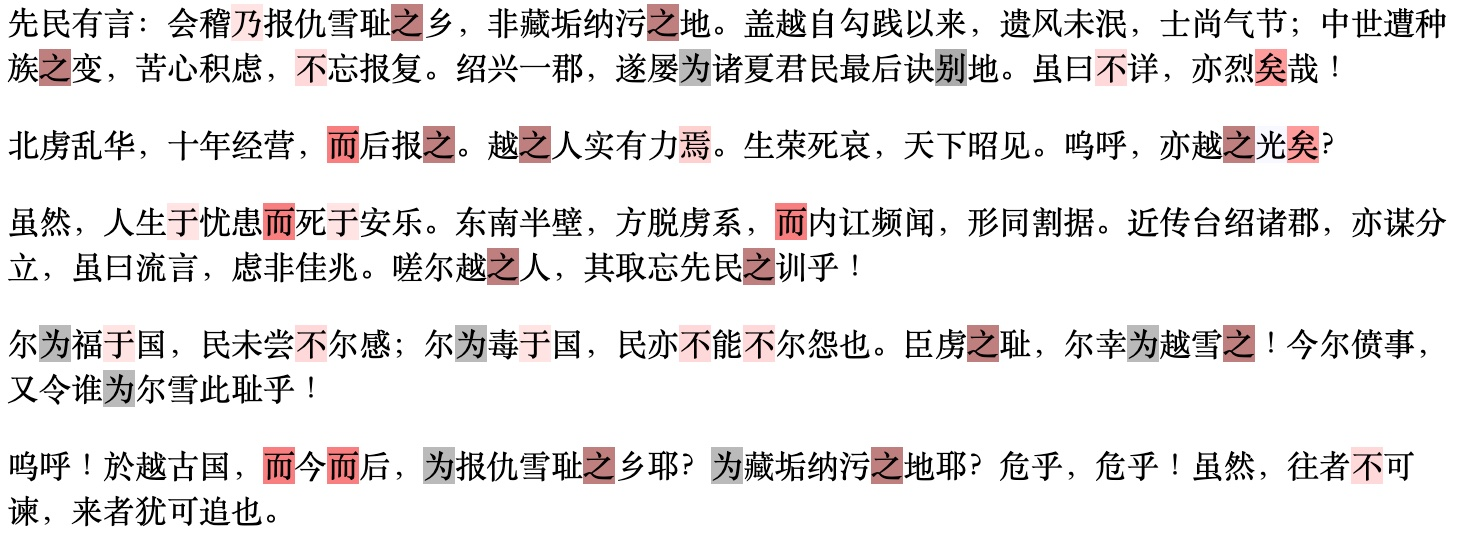
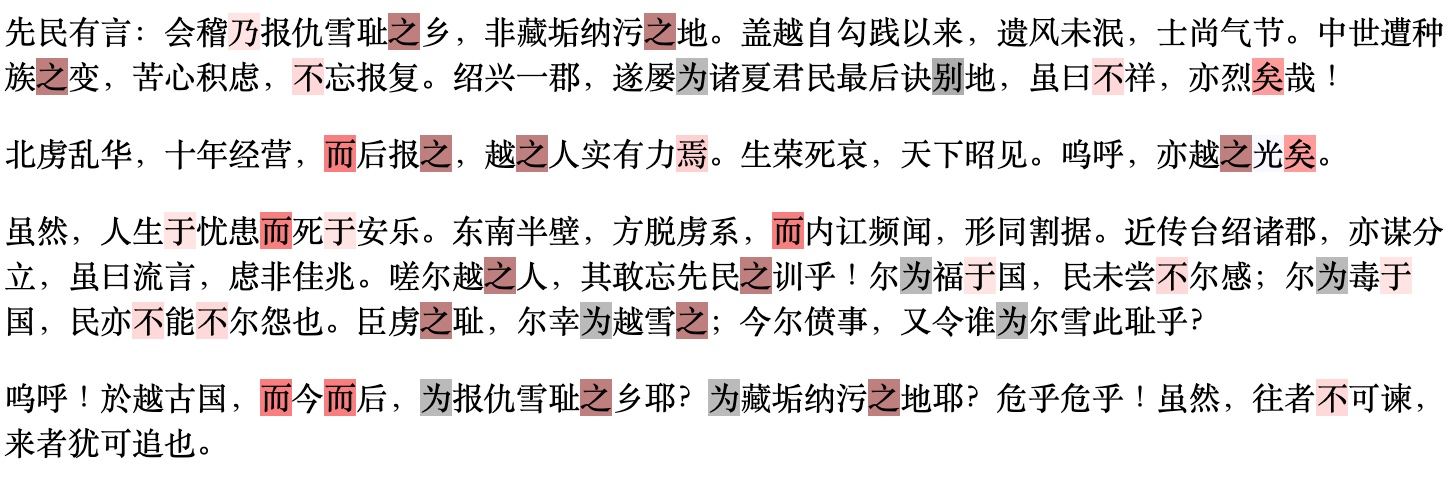
Update viz and html files to reflect modification on corpus

diff --git a/visualization/望华国篇.html b/visualization/望华国篇.html
@@ -5,7 +5,7 @@
         <meta charset="UTF-8">
     </head>
     <body>
-    <p>灵肉战绌，欲动情胜。罪恶滋长，缘生耻辱。若以悲哀<mark style="background-color:rgba(127, 0, 0, 0.5);">之</mark>力，能知悔改；<mark style="background-color:rgba(255, 233, 233, 0.5);">则</mark>新生抽乙，即见<mark style="background-color:rgba(255, 201, 201, 0.5);">于</mark>剥复<mark style="background-color:rgba(127, 0, 0, 0.5);">之</mark>会。叉摩<mark style="background-color:rgba(127, 0, 0, 0.5);">之</mark>谊，凡以披陈众失，发露过咎，改往<mark style="background-color:rgba(127, 0, 0, 0.5);">之</mark>际，<mark style="background-color:rgba(255, 180, 180, 0.5);">不</mark>忘修来。故待善化。民族<mark style="background-color:rgba(127, 0, 0, 0.5);">之</mark>中兴，亦<mark style="background-color:rgba(49, 49, 49, 0.5);">本</mark>此理。神<mark style="background-color:rgba(255, 180, 180, 0.5);">不</mark>终昧，回首怅然，厌悔脱离，更始其命。岂有他哉，自觉<mark style="background-color:rgba(241, 0, 0, 0.5);">而</mark>已<mark style="background-color:rgba(255, 56, 56, 0.5);">矣</mark>！然余观<mark style="background-color:rgba(255, 201, 201, 0.5);">于</mark>华国<mark style="background-color:rgba(127, 0, 0, 0.5);">之</mark>民，<mark style="background-color:rgba(255, 201, 201, 0.5);">乃</mark>又<mark style="background-color:rgba(255, 180, 180, 0.5);">不</mark>能无感。往者政教<mark style="background-color:rgba(117, 117, 117, 0.5);">为</mark>虐，种性日离。千载以来，世<mark style="background-color:rgba(117, 117, 117, 0.5);">为</mark>胜民。以利禄<mark style="background-color:rgba(117, 117, 117, 0.5);">为</mark>性命，以残贼<mark style="background-color:rgba(117, 117, 117, 0.5);">为</mark>功业。利<mark style="background-color:rgba(127, 0, 0, 0.5);">之</mark>所在，<mark style="background-color:rgba(255, 180, 180, 0.5);">不</mark>问恩仇，虽异族可君，同种可杀也。其次所畏莫若威，故所业二，<mark style="background-color:rgba(255, 180, 180, 0.5);">不</mark>受制<mark style="background-color:rgba(255, 201, 201, 0.5);">于</mark>人，<mark style="background-color:rgba(255, 233, 233, 0.5);">则</mark><mark style="background-color:rgba(117, 117, 117, 0.5);">为</mark>暴<mark style="background-color:rgba(255, 201, 201, 0.5);">于</mark>国。中国<mark style="background-color:rgba(127, 0, 0, 0.5);">之</mark>事，一治、一乱。治者，其服刑<mark style="background-color:rgba(127, 0, 0, 0.5);">之</mark>日；<mark style="background-color:rgba(241, 0, 0, 0.5);">而</mark>乱者其得志<mark style="background-color:rgba(127, 0, 0, 0.5);">之</mark>秋。故观近古史书，历历<mark style="background-color:rgba(139, 139, 139, 0.5);">皆</mark>罪恶<mark style="background-color:rgba(127, 0, 0, 0.5);">之</mark>迹；亦历历<mark style="background-color:rgba(139, 139, 139, 0.5);">皆</mark>耻辱<mark style="background-color:rgba(127, 0, 0, 0.5);">之</mark>痕也。罪辱如斯，<mark style="background-color:rgba(241, 0, 0, 0.5);">而</mark>悲哀<mark style="background-color:rgba(255, 233, 233, 0.5);">则</mark>安在，悔改者又谁欤？顽迷<mark style="background-color:rgba(127, 0, 0, 0.5);">之</mark>民，<mark style="background-color:rgba(255, 180, 180, 0.5);">不</mark>知自觉，坐令覆辙屡践，长其罪恶<mark style="background-color:rgba(241, 0, 0, 0.5);">而</mark>重其耻辱，可哀也<mark style="background-color:rgba(209, 209, 255, 0.5);">夫</mark>！其事一征<mark style="background-color:rgba(127, 0, 0, 0.5);">之</mark><mark style="background-color:rgba(255, 201, 201, 0.5);">于</mark>五胡<mark style="background-color:rgba(127, 0, 0, 0.5);">之</mark>世，再征<mark style="background-color:rgba(127, 0, 0, 0.5);">之</mark><mark style="background-color:rgba(255, 201, 201, 0.5);">于</mark>金，三征<mark style="background-color:rgba(127, 0, 0, 0.5);">之</mark><mark style="background-color:rgba(255, 201, 201, 0.5);">于</mark>元，四征<mark style="background-color:rgba(127, 0, 0, 0.5);">之</mark><mark style="background-color:rgba(255, 201, 201, 0.5);">于</mark>清，<mark style="background-color:rgba(241, 0, 0, 0.5);">而</mark>人<mark style="background-color:rgba(139, 139, 139, 0.5);">皆</mark><mark style="background-color:rgba(255, 180, 180, 0.5);">不</mark>知悟；伍征<mark style="background-color:rgba(127, 0, 0, 0.5);">之</mark><mark style="background-color:rgba(255, 201, 201, 0.5);">于</mark>太平天国时，曾彭<mark style="background-color:rgba(127, 0, 0, 0.5);">之</mark>助贼，杨李<mark style="background-color:rgba(127, 0, 0, 0.5);">之</mark>争权；六征<mark style="background-color:rgba(127, 0, 0, 0.5);">之</mark><mark style="background-color:rgba(255, 201, 201, 0.5);">于</mark>今，袁冯<mark style="background-color:rgba(127, 0, 0, 0.5);">之</mark><mark style="background-color:rgba(255, 141, 141, 0.5);">徒</mark>，无异<mark style="background-color:rgba(255, 201, 201, 0.5);">于</mark>曾彭，焦陈<mark style="background-color:rgba(127, 0, 0, 0.5);">之</mark>狱，孙黎<mark style="background-color:rgba(127, 0, 0, 0.5);">之</mark>囗，亦杨李<mark style="background-color:rgba(127, 0, 0, 0.5);">之</mark>渐。<mark style="background-color:rgba(241, 0, 0, 0.5);">而</mark>今陶君复殒<mark style="background-color:rgba(255, 201, 201, 0.5);">于</mark>私剑<mark style="background-color:rgba(255, 56, 56, 0.5);">矣</mark>，车过腹痛<mark style="background-color:rgba(127, 0, 0, 0.5);">之</mark>感，如<mark style="background-color:rgba(255, 141, 141, 0.5);">何</mark>可言！使君辈存，令此人死！华土<mark style="background-color:rgba(127, 0, 0, 0.5);">之</mark>人，其永劫<mark style="background-color:rgba(255, 180, 180, 0.5);">不</mark>厝者<mark style="background-color:rgba(255, 56, 56, 0.5);">矣</mark>。呜呼！陶君经营伟业，福被吾族。今<mark style="background-color:rgba(255, 180, 180, 0.5);">不</mark>死<mark style="background-color:rgba(255, 201, 201, 0.5);">于</mark>异族，<mark style="background-color:rgba(241, 0, 0, 0.5);">而</mark>死<mark style="background-color:rgba(255, 201, 201, 0.5);">于</mark>同种<mark style="background-color:rgba(127, 0, 0, 0.5);">之</mark>手，岂命也<mark style="background-color:rgba(209, 209, 255, 0.5);">夫</mark>！君<mark style="background-color:rgba(127, 0, 0, 0.5);">之</mark>死，<mark style="background-color:rgba(49, 49, 49, 0.5);">本</mark><mark style="background-color:rgba(255, 201, 201, 0.5);">于</mark>敌谋，或出自私利，虽<mark style="background-color:rgba(255, 180, 180, 0.5);">不</mark>可知，要<mark style="background-color:rgba(127, 0, 0, 0.5);">之</mark>汉人亲将其事<mark style="background-color:rgba(255, 233, 233, 0.5);">则</mark>一。<mark style="background-color:rgba(209, 209, 255, 0.5);">夫</mark>春秋<mark style="background-color:rgba(127, 0, 0, 0.5);">之</mark>义，内诸夏<mark style="background-color:rgba(241, 0, 0, 0.5);">而</mark>外夷狄，岂<mark style="background-color:rgba(183, 0, 0, 0.5);">诚</mark>推寻<mark style="background-color:rgba(255, 201, 201, 0.5);">于</mark>谱谍<mark style="background-color:rgba(127, 0, 0, 0.5);">之</mark>际，以立差<mark style="background-color:rgba(90, 90, 90, 0.5);">别</mark>？第以种姓既殊，利害相反，故亲者日亲，疏者日疏。野人械斗<mark style="background-color:rgba(255, 180, 180, 0.5);">不</mark><mark style="background-color:rgba(66, 66, 66, 0.5);">及</mark>同征<mark style="background-color:rgba(127, 0, 0, 0.5);">之</mark>众，<mark style="background-color:rgba(241, 0, 0, 0.5);">而</mark>炎黄帝子，<mark style="background-color:rgba(255, 201, 201, 0.5);">乃</mark>推刃<mark style="background-color:rgba(255, 201, 201, 0.5);">于</mark>同气。<mark style="background-color:rgba(255, 5, 5, 0.5);">惟</mark>帝眷兹苗裔，其啸吟<mark style="background-color:rgba(255, 56, 56, 0.5);">矣</mark>！来日方艰，天怒将赫。余欲登高丘，呼国人<mark style="background-color:rgba(241, 0, 0, 0.5);">而</mark>属<mark style="background-color:rgba(127, 0, 0, 0.5);">之</mark>曰：汝其悔改！汝倘自觉，戴其夙业，号泣<mark style="background-color:rgba(255, 201, 201, 0.5);">于</mark>旷野以自怨艾，悲哀<mark style="background-color:rgba(127, 0, 0, 0.5);">之</mark>声发<mark style="background-color:rgba(255, 201, 201, 0.5);">于</mark>中，汝<mark style="background-color:rgba(255, 201, 201, 0.5);">乃</mark>昭苏。宁保灵明<mark style="background-color:rgba(241, 0, 0, 0.5);">而</mark>死，毋徇物欲以生也。先哲有言：<mark style="background-color:rgba(255, 5, 5, 0.5);">惟</mark>有坟墓处，始有复活，望<mark style="background-color:rgba(127, 0, 0, 0.5);">之</mark>始也。即或<mark style="background-color:rgba(255, 180, 180, 0.5);">不</mark>然，复活<mark style="background-color:rgba(255, 180, 180, 0.5);">不</mark>可期，<mark style="background-color:rgba(241, 0, 0, 0.5);">而</mark>幽垄<mark style="background-color:rgba(127, 0, 0, 0.5);">之</mark>清净，亦差胜<mark style="background-color:rgba(255, 201, 201, 0.5);">于</mark>秽墟<mark style="background-color:rgba(127, 0, 0, 0.5);">之</mark>恶浊尔，悲<mark style="background-color:rgba(209, 209, 255, 0.5);">夫</mark>！此望<mark style="background-color:rgba(127, 0, 0, 0.5);">之</mark>终也。</p>
+    <p>灵肉战绌，欲动情胜，罪恶滋长，缘生耻辱。若以悲哀<mark style="background-color:rgba(127, 0, 0, 0.5);">之</mark>力，能知悔改，<mark style="background-color:rgba(255, 233, 233, 0.5);">则</mark>新生抽乙，即见<mark style="background-color:rgba(255, 201, 201, 0.5);">于</mark>剥复<mark style="background-color:rgba(127, 0, 0, 0.5);">之</mark>会，又摩<mark style="background-color:rgba(127, 0, 0, 0.5);">之</mark>以谊，凡以披陈众失，发露过咎，改往<mark style="background-color:rgba(127, 0, 0, 0.5);">之</mark>际，<mark style="background-color:rgba(255, 180, 180, 0.5);">不</mark>忘修来，故待善化。民族<mark style="background-color:rgba(127, 0, 0, 0.5);">之</mark>中兴，亦<mark style="background-color:rgba(49, 49, 49, 0.5);">本</mark>此理。神<mark style="background-color:rgba(255, 180, 180, 0.5);">不</mark>终昧，回首怅然。厌悔脱离，更始其命，岂有他哉，自觉<mark style="background-color:rgba(241, 0, 0, 0.5);">而</mark>已<mark style="background-color:rgba(255, 56, 56, 0.5);">矣</mark>。</p><p></p><p>然余观<mark style="background-color:rgba(255, 201, 201, 0.5);">于</mark>华国<mark style="background-color:rgba(127, 0, 0, 0.5);">之</mark>民，<mark style="background-color:rgba(255, 201, 201, 0.5);">乃</mark>又<mark style="background-color:rgba(255, 180, 180, 0.5);">不</mark>能无感。往者政教<mark style="background-color:rgba(117, 117, 117, 0.5);">为</mark>虐，种性日离，千载以来，世<mark style="background-color:rgba(117, 117, 117, 0.5);">为</mark>胜民，以利禄<mark style="background-color:rgba(117, 117, 117, 0.5);">为</mark>性命，以残贼<mark style="background-color:rgba(117, 117, 117, 0.5);">为</mark>功业。利<mark style="background-color:rgba(127, 0, 0, 0.5);">之</mark>所在，<mark style="background-color:rgba(255, 180, 180, 0.5);">不</mark>问恩仇，虽异族可君，同种可杀也。其次所畏莫若威。故所业二，<mark style="background-color:rgba(255, 180, 180, 0.5);">不</mark>受制<mark style="background-color:rgba(255, 201, 201, 0.5);">于</mark>人，<mark style="background-color:rgba(255, 233, 233, 0.5);">则</mark><mark style="background-color:rgba(117, 117, 117, 0.5);">为</mark>暴<mark style="background-color:rgba(255, 201, 201, 0.5);">于</mark>国。中国<mark style="background-color:rgba(127, 0, 0, 0.5);">之</mark>事，一治一乱。治者其服刑<mark style="background-color:rgba(127, 0, 0, 0.5);">之</mark>日，<mark style="background-color:rgba(241, 0, 0, 0.5);">而</mark>乱者其得志<mark style="background-color:rgba(127, 0, 0, 0.5);">之</mark>秋。故观近古史书，历历<mark style="background-color:rgba(139, 139, 139, 0.5);">皆</mark>罪恶<mark style="background-color:rgba(127, 0, 0, 0.5);">之</mark>迹，亦历历<mark style="background-color:rgba(139, 139, 139, 0.5);">皆</mark>耻辱<mark style="background-color:rgba(127, 0, 0, 0.5);">之</mark>痕也。罪辱如斯，<mark style="background-color:rgba(241, 0, 0, 0.5);">而</mark>悲哀<mark style="background-color:rgba(255, 233, 233, 0.5);">则</mark>安在，悔改者又谁欤？顽迷<mark style="background-color:rgba(127, 0, 0, 0.5);">之</mark>民，<mark style="background-color:rgba(255, 180, 180, 0.5);">不</mark>知自觉，坐令覆辙屡践，长其罪恶<mark style="background-color:rgba(241, 0, 0, 0.5);">而</mark>重其耻辱，可哀也<mark style="background-color:rgba(209, 209, 255, 0.5);">夫</mark>！其事一征<mark style="background-color:rgba(127, 0, 0, 0.5);">之</mark><mark style="background-color:rgba(255, 201, 201, 0.5);">于</mark>五胡<mark style="background-color:rgba(127, 0, 0, 0.5);">之</mark>世，再征<mark style="background-color:rgba(127, 0, 0, 0.5);">之</mark><mark style="background-color:rgba(255, 201, 201, 0.5);">于</mark>金，三征<mark style="background-color:rgba(127, 0, 0, 0.5);">之</mark><mark style="background-color:rgba(255, 201, 201, 0.5);">于</mark>元，四征<mark style="background-color:rgba(127, 0, 0, 0.5);">之</mark><mark style="background-color:rgba(255, 201, 201, 0.5);">于</mark>清，<mark style="background-color:rgba(241, 0, 0, 0.5);">而</mark>人<mark style="background-color:rgba(139, 139, 139, 0.5);">皆</mark><mark style="background-color:rgba(255, 180, 180, 0.5);">不</mark>知悟；五征<mark style="background-color:rgba(127, 0, 0, 0.5);">之</mark><mark style="background-color:rgba(255, 201, 201, 0.5);">于</mark>太平天国时曾彭<mark style="background-color:rgba(127, 0, 0, 0.5);">之</mark>助贼，杨李<mark style="background-color:rgba(127, 0, 0, 0.5);">之</mark>争权；六征<mark style="background-color:rgba(127, 0, 0, 0.5);">之</mark><mark style="background-color:rgba(255, 201, 201, 0.5);">于</mark>今，袁冯<mark style="background-color:rgba(127, 0, 0, 0.5);">之</mark><mark style="background-color:rgba(255, 141, 141, 0.5);">徒</mark>无异<mark style="background-color:rgba(255, 201, 201, 0.5);">于</mark>曾彭，焦陈<mark style="background-color:rgba(127, 0, 0, 0.5);">之</mark>狱，孙黎<mark style="background-color:rgba(127, 0, 0, 0.5);">之</mark>囗，亦杨李<mark style="background-color:rgba(127, 0, 0, 0.5);">之</mark>渐。<mark style="background-color:rgba(241, 0, 0, 0.5);">而</mark>今陶君复殒<mark style="background-color:rgba(255, 201, 201, 0.5);">于</mark>私剑<mark style="background-color:rgba(255, 56, 56, 0.5);">矣</mark>，车过腹痛<mark style="background-color:rgba(127, 0, 0, 0.5);">之</mark>感，如<mark style="background-color:rgba(255, 141, 141, 0.5);">何</mark>可言！使君辈存，令此人死。华土<mark style="background-color:rgba(127, 0, 0, 0.5);">之</mark>人，其永劫<mark style="background-color:rgba(255, 180, 180, 0.5);">不</mark>悟者<mark style="background-color:rgba(255, 56, 56, 0.5);">矣</mark>。</p><p></p><p>呜呼！陶君经营伟业，福被吾族。今<mark style="background-color:rgba(255, 180, 180, 0.5);">不</mark>死<mark style="background-color:rgba(255, 201, 201, 0.5);">于</mark>异族，<mark style="background-color:rgba(241, 0, 0, 0.5);">而</mark>死<mark style="background-color:rgba(255, 201, 201, 0.5);">于</mark>同种<mark style="background-color:rgba(127, 0, 0, 0.5);">之</mark>手，岂命也<mark style="background-color:rgba(209, 209, 255, 0.5);">夫</mark>！君<mark style="background-color:rgba(127, 0, 0, 0.5);">之</mark>死，<mark style="background-color:rgba(49, 49, 49, 0.5);">本</mark><mark style="background-color:rgba(255, 201, 201, 0.5);">于</mark>敌谋，或出自私利，虽<mark style="background-color:rgba(255, 180, 180, 0.5);">不</mark>可知，要<mark style="background-color:rgba(127, 0, 0, 0.5);">之</mark>汉人亲将其事<mark style="background-color:rgba(255, 233, 233, 0.5);">则</mark>一。<mark style="background-color:rgba(209, 209, 255, 0.5);">夫</mark>《春秋》<mark style="background-color:rgba(127, 0, 0, 0.5);">之</mark>义，内诸夏<mark style="background-color:rgba(241, 0, 0, 0.5);">而</mark>外夷狄，岂<mark style="background-color:rgba(183, 0, 0, 0.5);">诚</mark>推寻<mark style="background-color:rgba(255, 201, 201, 0.5);">于</mark>谱牒<mark style="background-color:rgba(127, 0, 0, 0.5);">之</mark>际，以立差<mark style="background-color:rgba(90, 90, 90, 0.5);">别</mark>？第以种姓既殊，利害相反，故亲者日亲，疏者日疏。野人械斗<mark style="background-color:rgba(255, 180, 180, 0.5);">不</mark><mark style="background-color:rgba(66, 66, 66, 0.5);">及</mark>同征<mark style="background-color:rgba(127, 0, 0, 0.5);">之</mark>众，<mark style="background-color:rgba(241, 0, 0, 0.5);">而</mark>炎黄帝子，<mark style="background-color:rgba(255, 201, 201, 0.5);">乃</mark>推刃<mark style="background-color:rgba(255, 201, 201, 0.5);">于</mark>同气。<mark style="background-color:rgba(255, 5, 5, 0.5);">惟</mark>帝眷兹苗裔，其啸吟<mark style="background-color:rgba(255, 56, 56, 0.5);">矣</mark>。</p><p></p><p>来日方艰，天怒将赫。余欲登高丘，呼国人<mark style="background-color:rgba(241, 0, 0, 0.5);">而</mark>属<mark style="background-color:rgba(127, 0, 0, 0.5);">之</mark>曰：汝其悔改！汝倘自觉，戴其夙业，号泣<mark style="background-color:rgba(255, 201, 201, 0.5);">于</mark>旷野以自怨艾，悲哀<mark style="background-color:rgba(127, 0, 0, 0.5);">之</mark>声发<mark style="background-color:rgba(255, 201, 201, 0.5);">于</mark>中，汝<mark style="background-color:rgba(255, 201, 201, 0.5);">乃</mark>昭苏。宁保灵明<mark style="background-color:rgba(241, 0, 0, 0.5);">而</mark>死，毋徇物欲以生也。先哲有言：<mark style="background-color:rgba(255, 5, 5, 0.5);">惟</mark>有坟墓处，始有复活，望<mark style="background-color:rgba(127, 0, 0, 0.5);">之</mark>始也。即或<mark style="background-color:rgba(255, 180, 180, 0.5);">不</mark>然，复活<mark style="background-color:rgba(255, 180, 180, 0.5);">不</mark>可期，<mark style="background-color:rgba(241, 0, 0, 0.5);">而</mark>幽垄<mark style="background-color:rgba(127, 0, 0, 0.5);">之</mark>清净，亦差胜<mark style="background-color:rgba(255, 201, 201, 0.5);">于</mark>秽墟<mark style="background-color:rgba(127, 0, 0, 0.5);">之</mark>恶浊尔。悲<mark style="background-color:rgba(209, 209, 255, 0.5);">夫</mark>！此望<mark style="background-color:rgba(127, 0, 0, 0.5);">之</mark>终也。</p>
     </body>
     </html>
     

diff --git a/visualization/望越篇.html b/visualization/望越篇.html
@@ -5,7 +5,7 @@
         <meta charset="UTF-8">
     </head>
     <body>
-    <p>盖闻<mark style="background-color:rgba(127, 0, 0, 0.5);">之</mark>：一国文明<mark style="background-color:rgba(127, 0, 0, 0.5);">之</mark>消长，以种业<mark style="background-color:rgba(117, 117, 117, 0.5);">为</mark>因依，其由来者远。欲探厥极，当上涉<mark style="background-color:rgba(255, 201, 201, 0.5);">于</mark>幽冥<mark style="background-color:rgba(127, 0, 0, 0.5);">之</mark>界。种业者，<mark style="background-color:rgba(49, 49, 49, 0.5);">本</mark><mark style="background-color:rgba(255, 201, 201, 0.5);">于</mark>国人彝德，驸以习贯所安，宗信所仰，重<mark style="background-color:rgba(127, 0, 0, 0.5);">之</mark>以岁月，积渐<mark style="background-color:rgba(255, 201, 201, 0.5);">乃</mark>成。其期常以千年，近者亦数百岁。逮其宁一，<mark style="background-color:rgba(255, 233, 233, 0.5);">则</mark>思感咸通，<mark style="background-color:rgba(127, 0, 0, 0.5);">之</mark><mark style="background-color:rgba(117, 117, 117, 0.5);">为</mark>公意，虽有圣者，莫赞一辞。故造成种业，<mark style="background-color:rgba(255, 180, 180, 0.5);">不</mark>在上智，<mark style="background-color:rgba(241, 0, 0, 0.5);">而</mark>在中人；<mark style="background-color:rgba(255, 180, 180, 0.5);">不</mark>在生人，<mark style="background-color:rgba(241, 0, 0, 0.5);">而</mark>在死者。二者以其<mark style="background-color:rgba(117, 117, 117, 0.5);">为</mark>数<mark style="background-color:rgba(127, 0, 0, 0.5);">之</mark><mark style="background-color:rgba(120, 120, 120, 0.5);">多</mark>，与<mark style="background-color:rgba(117, 117, 117, 0.5);">为</mark>时<mark style="background-color:rgba(127, 0, 0, 0.5);">之</mark>永，立其权威；后世子孙，承其血胤者，亦并袭其感情，发念致能，莫克自外。唯其坐绐其业，<mark style="background-color:rgba(241, 0, 0, 0.5);">而</mark>收其果，<mark style="background-color:rgba(117, 117, 117, 0.5);">为</mark>善<mark style="background-color:rgba(117, 117, 117, 0.5);">为</mark>恶，无所撰<mark style="background-color:rgba(90, 90, 90, 0.5);">别</mark>，遗传<mark style="background-color:rgba(127, 0, 0, 0.5);">之</mark>可畏，有如<mark style="background-color:rgba(255, 85, 85, 0.5);">是</mark>也。盖民旅<mark style="background-color:rgba(127, 0, 0, 0.5);">之</mark>例，与他生物同。大野<mark style="background-color:rgba(127, 0, 0, 0.5);">之</mark>鸟，有翼<mark style="background-color:rgba(255, 180, 180, 0.5);">不</mark>能飞；冥海<mark style="background-color:rgba(127, 0, 0, 0.5);">之</mark>鱼，有目<mark style="background-color:rgba(255, 180, 180, 0.5);">不</mark>能视；中落<mark style="background-color:rgba(127, 0, 0, 0.5);">之</mark>民，有心思材力<mark style="background-color:rgba(241, 0, 0, 0.5);">而</mark><mark style="background-color:rgba(255, 180, 180, 0.5);">不</mark>能正用。习性相重，流<mark style="background-color:rgba(117, 117, 117, 0.5);">为</mark>种业，三者同然<mark style="background-color:rgba(255, 161, 161, 0.5);">焉</mark>。中国专制<mark style="background-color:rgba(255, 201, 201, 0.5);">于</mark>北虏，既二百六十余年；局促伏处专制政治<mark style="background-color:rgba(127, 0, 0, 0.5);">之</mark>下者，且二千百三十载<mark style="background-color:rgba(255, 56, 56, 0.5);">矣</mark>。今得解脱，会成共和，出<mark style="background-color:rgba(255, 201, 201, 0.5);">于</mark>幽谷，迁<mark style="background-color:rgba(255, 201, 201, 0.5);">于</mark>乔木，华夏<mark style="background-color:rgba(127, 0, 0, 0.5);">之</mark>民，孰<mark style="background-color:rgba(255, 180, 180, 0.5);">不</mark>欢忻？顾返瞻往迹，亦有<mark style="background-color:rgba(255, 180, 180, 0.5);">不</mark>能<mark style="background-color:rgba(255, 180, 180, 0.5);">不</mark>惧者，其积染者深，<mark style="background-color:rgba(255, 233, 233, 0.5);">则</mark>更除也<mark style="background-color:rgba(255, 180, 180, 0.5);">不</mark>易。中国政教，自昔<mark style="background-color:rgba(139, 139, 139, 0.5);">皆</mark>以愚民<mark style="background-color:rgba(117, 117, 117, 0.5);">为</mark>事：以刑戮慑俊士，以利禄招黠民。盖以儒者邪说（专指宋儒）助张其虐，二千年来，经此洮汰，庸愚者生，佞捷者荣；神明<mark style="background-color:rgba(127, 0, 0, 0.5);">之</mark>种，几无孑遗。种业如斯，其<mark style="background-color:rgba(255, 141, 141, 0.5);">何</mark>能臧？历世忧患，有由来<mark style="background-color:rgba(255, 56, 56, 0.5);">矣</mark>，今者千载一时，会更始<mark style="background-color:rgba(127, 0, 0, 0.5);">之</mark>际，予<mark style="background-color:rgba(255, 180, 180, 0.5);">不</mark>知华土<mark style="background-color:rgba(127, 0, 0, 0.5);">之</mark>人，其能洗心涤虑，以趣新生乎？抑仍将伈伈伣伣，以求禄位乎？<mark style="background-color:rgba(255, 201, 201, 0.5);">于</mark>彼<mark style="background-color:rgba(255, 201, 201, 0.5);">于</mark>此，孰<mark style="background-color:rgba(117, 117, 117, 0.5);">为</mark>决<mark style="background-color:rgba(127, 0, 0, 0.5);">之</mark>？予生於越，<mark style="background-color:rgba(255, 180, 180, 0.5);">不</mark>能远引以观其变，今唯以越一隅<mark style="background-color:rgba(127, 0, 0, 0.5);">之</mark><mark style="background-color:rgba(117, 117, 117, 0.5);">为</mark>征，当察越<mark style="background-color:rgba(127, 0, 0, 0.5);">之</mark>君子，<mark style="background-color:rgba(255, 141, 141, 0.5);">何</mark>以自建？越<mark style="background-color:rgba(127, 0, 0, 0.5);">之</mark>野人，<mark style="background-color:rgba(255, 141, 141, 0.5);">何</mark>以自安？公仆<mark style="background-color:rgba(127, 0, 0, 0.5);">之</mark>政，<mark style="background-color:rgba(255, 141, 141, 0.5);">何</mark>所<mark style="background-color:rgba(90, 90, 90, 0.5);">别</mark>千君侯？国士<mark style="background-color:rgba(127, 0, 0, 0.5);">之</mark>行，<mark style="background-color:rgba(255, 141, 141, 0.5);">何</mark>所异<mark style="background-color:rgba(255, 201, 201, 0.5);">于</mark>臣妾？凡兹同异，靡<mark style="background-color:rgba(255, 180, 180, 0.5);">不</mark>当详。国人性格<mark style="background-color:rgba(127, 0, 0, 0.5);">之</mark>良窳，智虑<mark style="background-color:rgba(127, 0, 0, 0.5);">之</mark>蒙启，可<mark style="background-color:rgba(255, 105, 105, 0.5);">于是</mark>见<mark style="background-color:rgba(127, 0, 0, 0.5);">之</mark>。如其善也，斯於越<mark style="background-color:rgba(127, 0, 0, 0.5);">之</mark><mark style="background-color:rgba(241, 241, 255, 0.5);">光</mark>，亦夏族<mark style="background-color:rgba(127, 0, 0, 0.5);">之</mark>福。若或<mark style="background-color:rgba(255, 180, 180, 0.5);">不</mark>然，利欲<mark style="background-color:rgba(127, 0, 0, 0.5);">之</mark>私，终<mark style="background-color:rgba(117, 117, 117, 0.5);">为</mark>吾毒。<mark style="background-color:rgba(255, 233, 233, 0.5);">则</mark><mark style="background-color:rgba(255, 85, 85, 0.5);">是</mark>因果相循，无可诛责，唯有撮灰散顶，诅先民<mark style="background-color:rgba(127, 0, 0, 0.5);">之</mark>罪恶<mark style="background-color:rgba(241, 0, 0, 0.5);">而</mark>已。仲尼龟山操曰：“[MASK]。”今瞻禹域，亦<mark style="background-color:rgba(255, 5, 5, 0.5);">惟</mark>种业因陈<mark style="background-color:rgba(117, 117, 117, 0.5);">为</mark><mark style="background-color:rgba(127, 0, 0, 0.5);">之</mark>蔽耳。虽有斧柯，其能伐<mark style="background-color:rgba(149, 149, 149, 0.5);">自然</mark><mark style="background-color:rgba(127, 0, 0, 0.5);">之</mark>律<mark style="background-color:rgba(241, 0, 0, 0.5);">而</mark>夷<mark style="background-color:rgba(127, 0, 0, 0.5);">之</mark>乎？吾<mark style="background-color:rgba(117, 117, 117, 0.5);">为</mark>此惧。</p>
+    <p>盖闻<mark style="background-color:rgba(127, 0, 0, 0.5);">之</mark>，一国文明<mark style="background-color:rgba(127, 0, 0, 0.5);">之</mark>消长，以种业<mark style="background-color:rgba(117, 117, 117, 0.5);">为</mark>因依，其由来者远，欲探厥极，当上涉<mark style="background-color:rgba(255, 201, 201, 0.5);">于</mark>幽冥<mark style="background-color:rgba(127, 0, 0, 0.5);">之</mark>界。种业者，<mark style="background-color:rgba(49, 49, 49, 0.5);">本</mark><mark style="background-color:rgba(255, 201, 201, 0.5);">于</mark>国人彝德，驸以习惯所安，宗信所仰，重<mark style="background-color:rgba(127, 0, 0, 0.5);">之</mark>以岁月，积渐<mark style="background-color:rgba(255, 201, 201, 0.5);">乃</mark>成，其期常以千年，近者亦数百岁。逮其宁一，<mark style="background-color:rgba(255, 233, 233, 0.5);">则</mark>思感咸通，<mark style="background-color:rgba(127, 0, 0, 0.5);">之</mark><mark style="background-color:rgba(117, 117, 117, 0.5);">为</mark>公意，虽有圣者，莫能更赞一辞。故造成种业，<mark style="background-color:rgba(255, 180, 180, 0.5);">不</mark>在上智，<mark style="background-color:rgba(241, 0, 0, 0.5);">而</mark>在中人；<mark style="background-color:rgba(255, 180, 180, 0.5);">不</mark>在生人，<mark style="background-color:rgba(241, 0, 0, 0.5);">而</mark>在死者。二者以其<mark style="background-color:rgba(117, 117, 117, 0.5);">为</mark>数<mark style="background-color:rgba(127, 0, 0, 0.5);">之</mark><mark style="background-color:rgba(120, 120, 120, 0.5);">多</mark>与<mark style="background-color:rgba(117, 117, 117, 0.5);">为</mark>时<mark style="background-color:rgba(127, 0, 0, 0.5);">之</mark>永，立其权威，后世子孙承其血胤者亦并袭其感情，发念致能，莫克自外，唯其坐绍其业<mark style="background-color:rgba(241, 0, 0, 0.5);">而</mark>收其果，<mark style="background-color:rgba(117, 117, 117, 0.5);">为</mark>善<mark style="background-color:rgba(117, 117, 117, 0.5);">为</mark>恶，无所撰<mark style="background-color:rgba(90, 90, 90, 0.5);">别</mark>，遗传<mark style="background-color:rgba(127, 0, 0, 0.5);">之</mark>可畏<mark style="background-color:rgba(255, 201, 201, 0.5);">乃</mark>如<mark style="background-color:rgba(255, 85, 85, 0.5);">是</mark>也。</p><p></p><p>盖民族<mark style="background-color:rgba(127, 0, 0, 0.5);">之</mark>例，与他生物同。大野<mark style="background-color:rgba(127, 0, 0, 0.5);">之</mark>鸟，有翼<mark style="background-color:rgba(255, 180, 180, 0.5);">不</mark>能飞；冥海<mark style="background-color:rgba(127, 0, 0, 0.5);">之</mark>鱼，有目<mark style="background-color:rgba(255, 180, 180, 0.5);">不</mark>能视；中落<mark style="background-color:rgba(127, 0, 0, 0.5);">之</mark>民，有心思材力<mark style="background-color:rgba(241, 0, 0, 0.5);">而</mark><mark style="background-color:rgba(255, 180, 180, 0.5);">不</mark>能用。习性相重，流<mark style="background-color:rgba(117, 117, 117, 0.5);">为</mark>种业，三者同然<mark style="background-color:rgba(255, 161, 161, 0.5);">焉</mark>。中国受制<mark style="background-color:rgba(255, 201, 201, 0.5);">于</mark>满洲，既二百六十馀年，其局促伏处专制政治<mark style="background-color:rgba(127, 0, 0, 0.5);">之</mark>下者，且二千百三十载<mark style="background-color:rgba(255, 56, 56, 0.5);">矣</mark>。今得解脱，会成共和，出<mark style="background-color:rgba(255, 201, 201, 0.5);">于</mark>幽谷，迁<mark style="background-color:rgba(255, 201, 201, 0.5);">于</mark>乔木，华夏<mark style="background-color:rgba(127, 0, 0, 0.5);">之</mark>民，孰<mark style="background-color:rgba(255, 180, 180, 0.5);">不</mark>欢欣？顾返瞻往迹，亦有<mark style="background-color:rgba(255, 180, 180, 0.5);">不</mark>能<mark style="background-color:rgba(255, 180, 180, 0.5);">不</mark>惧者。其积染者深，<mark style="background-color:rgba(255, 233, 233, 0.5);">则</mark>更除也<mark style="background-color:rgba(255, 180, 180, 0.5);">不</mark>易。中国政教，自昔<mark style="background-color:rgba(139, 139, 139, 0.5);">皆</mark>以愚民<mark style="background-color:rgba(117, 117, 117, 0.5);">为</mark>事，以刑戮慑俊士，以利禄招黠民，益以儒者邪说，助张其虐，二千年来，经此洮汰，庸愚者生，佞捷者荣，神明<mark style="background-color:rgba(127, 0, 0, 0.5);">之</mark>种，几无孑遗。种业如斯，其<mark style="background-color:rgba(255, 141, 141, 0.5);">何</mark>能臧？历世忧患，有由来<mark style="background-color:rgba(255, 56, 56, 0.5);">矣</mark>。</p><p></p><p>今者千载一时，会更始<mark style="background-color:rgba(127, 0, 0, 0.5);">之</mark>际，予<mark style="background-color:rgba(255, 180, 180, 0.5);">不</mark>知华土<mark style="background-color:rgba(127, 0, 0, 0.5);">之</mark>民，其能洗心涤虑以趣新生乎？抑仍将伈伈伣伣以求禄位乎？<mark style="background-color:rgba(255, 201, 201, 0.5);">于</mark>彼<mark style="background-color:rgba(255, 201, 201, 0.5);">于</mark>此，孰<mark style="background-color:rgba(117, 117, 117, 0.5);">为</mark>决<mark style="background-color:rgba(127, 0, 0, 0.5);">之</mark>？予生於越，<mark style="background-color:rgba(255, 180, 180, 0.5);">不</mark>能远引以观其变，今唯以越一隅<mark style="background-color:rgba(127, 0, 0, 0.5);">之</mark><mark style="background-color:rgba(117, 117, 117, 0.5);">为</mark>征。当察越<mark style="background-color:rgba(127, 0, 0, 0.5);">之</mark>君子<mark style="background-color:rgba(255, 141, 141, 0.5);">何</mark>以自建，越<mark style="background-color:rgba(127, 0, 0, 0.5);">之</mark>野人<mark style="background-color:rgba(255, 141, 141, 0.5);">何</mark>以自安；公仆<mark style="background-color:rgba(127, 0, 0, 0.5);">之</mark>政<mark style="background-color:rgba(255, 141, 141, 0.5);">何</mark>所<mark style="background-color:rgba(90, 90, 90, 0.5);">别</mark><mark style="background-color:rgba(255, 201, 201, 0.5);">于</mark>君侯，国士<mark style="background-color:rgba(127, 0, 0, 0.5);">之</mark>行<mark style="background-color:rgba(255, 141, 141, 0.5);">何</mark>所异<mark style="background-color:rgba(255, 201, 201, 0.5);">于</mark>臣妾。凡兹同异，靡<mark style="background-color:rgba(255, 180, 180, 0.5);">不</mark>当详，国人性格<mark style="background-color:rgba(127, 0, 0, 0.5);">之</mark>良窳，智虑<mark style="background-color:rgba(127, 0, 0, 0.5);">之</mark>蒙启，可<mark style="background-color:rgba(255, 105, 105, 0.5);">于是</mark>见<mark style="background-color:rgba(127, 0, 0, 0.5);">之</mark>。如其善也，斯於越<mark style="background-color:rgba(127, 0, 0, 0.5);">之</mark><mark style="background-color:rgba(241, 241, 255, 0.5);">光</mark>，亦夏族<mark style="background-color:rgba(127, 0, 0, 0.5);">之</mark>福；若或<mark style="background-color:rgba(255, 180, 180, 0.5);">不</mark>然，利欲<mark style="background-color:rgba(127, 0, 0, 0.5);">之</mark>私，终<mark style="background-color:rgba(117, 117, 117, 0.5);">为</mark>吾毒，<mark style="background-color:rgba(255, 233, 233, 0.5);">则</mark><mark style="background-color:rgba(255, 85, 85, 0.5);">是</mark>因果相循，无可诛责，唯有撮灰散顶，诅先民<mark style="background-color:rgba(127, 0, 0, 0.5);">之</mark>罪恶<mark style="background-color:rgba(241, 0, 0, 0.5);">而</mark>已。仲尼《龟山操》曰：“☒☒☒☒☒，☒☒☒☒，☒☒☒☒，☒☒☒☒。”今瞻禹域，<mark style="background-color:rgba(255, 201, 201, 0.5);">乃</mark>亦<mark style="background-color:rgba(255, 5, 5, 0.5);">惟</mark>种业因陈<mark style="background-color:rgba(117, 117, 117, 0.5);">为</mark><mark style="background-color:rgba(127, 0, 0, 0.5);">之</mark>蔽耳。虽有斧柯，其能伐<mark style="background-color:rgba(149, 149, 149, 0.5);">自然</mark><mark style="background-color:rgba(127, 0, 0, 0.5);">之</mark>律<mark style="background-color:rgba(241, 0, 0, 0.5);">而</mark>夷<mark style="background-color:rgba(127, 0, 0, 0.5);">之</mark>乎？吾<mark style="background-color:rgba(117, 117, 117, 0.5);">为</mark>此惧。</p>
     </body>
     </html>
     

diff --git a/visualization/尔越人毋忘先民之训.html b/visualization/尔越人毋忘先民之训.html
@@ -5,7 +5,7 @@
         <meta charset="UTF-8">
     </head>
     <body>
-    <p>先民有言：会稽<mark style="background-color:rgba(255, 201, 201, 0.5);">乃</mark>报仇雪耻<mark style="background-color:rgba(127, 0, 0, 0.5);">之</mark>乡，非藏垢纳污<mark style="background-color:rgba(127, 0, 0, 0.5);">之</mark>地。盖越自勾践以来，遗风未泯，士尚气节；中世遭种族<mark style="background-color:rgba(127, 0, 0, 0.5);">之</mark>变，苦心积虑，<mark style="background-color:rgba(255, 180, 180, 0.5);">不</mark>忘报复。绍兴一郡，遂屡<mark style="background-color:rgba(117, 117, 117, 0.5);">为</mark>诸夏君民最后诀<mark style="background-color:rgba(90, 90, 90, 0.5);">别</mark>地。虽曰<mark style="background-color:rgba(255, 180, 180, 0.5);">不</mark>详，亦烈<mark style="background-color:rgba(255, 56, 56, 0.5);">矣</mark>哉！</p><p></p><p>北虏乱华，十年经营，<mark style="background-color:rgba(241, 0, 0, 0.5);">而</mark>后报<mark style="background-color:rgba(127, 0, 0, 0.5);">之</mark>。越<mark style="background-color:rgba(127, 0, 0, 0.5);">之</mark>人实有力<mark style="background-color:rgba(255, 161, 161, 0.5);">焉</mark>。生荣死哀，天下昭见。呜呼，亦越<mark style="background-color:rgba(127, 0, 0, 0.5);">之</mark><mark style="background-color:rgba(241, 241, 255, 0.5);">光</mark><mark style="background-color:rgba(255, 56, 56, 0.5);">矣</mark>？</p><p></p><p>虽然，人生<mark style="background-color:rgba(255, 201, 201, 0.5);">于</mark>忧患<mark style="background-color:rgba(241, 0, 0, 0.5);">而</mark>死<mark style="background-color:rgba(255, 201, 201, 0.5);">于</mark>安乐。东南半壁，方脱虏系，<mark style="background-color:rgba(241, 0, 0, 0.5);">而</mark>内讧频闻，形同割据。近传台绍诸郡，亦谋分立，虽曰流言，虑非佳兆。嗟尔越<mark style="background-color:rgba(127, 0, 0, 0.5);">之</mark>人，其取忘先民<mark style="background-color:rgba(127, 0, 0, 0.5);">之</mark>训乎！</p><p></p><p>尔<mark style="background-color:rgba(117, 117, 117, 0.5);">为</mark>福<mark style="background-color:rgba(255, 201, 201, 0.5);">于</mark>国，民未尝<mark style="background-color:rgba(255, 180, 180, 0.5);">不</mark>尔感；尔<mark style="background-color:rgba(117, 117, 117, 0.5);">为</mark>毒<mark style="background-color:rgba(255, 201, 201, 0.5);">于</mark>国，民亦<mark style="background-color:rgba(255, 180, 180, 0.5);">不</mark>能<mark style="background-color:rgba(255, 180, 180, 0.5);">不</mark>尔怨也。臣虏<mark style="background-color:rgba(127, 0, 0, 0.5);">之</mark>耻，尔幸<mark style="background-color:rgba(117, 117, 117, 0.5);">为</mark>越雪<mark style="background-color:rgba(127, 0, 0, 0.5);">之</mark>！今尔偾事，又令谁<mark style="background-color:rgba(117, 117, 117, 0.5);">为</mark>尔雪此耻乎！</p><p></p><p>呜呼！於越古国，<mark style="background-color:rgba(241, 0, 0, 0.5);">而</mark>今<mark style="background-color:rgba(241, 0, 0, 0.5);">而</mark>后，<mark style="background-color:rgba(117, 117, 117, 0.5);">为</mark>报仇雪耻<mark style="background-color:rgba(127, 0, 0, 0.5);">之</mark>乡耶？<mark style="background-color:rgba(117, 117, 117, 0.5);">为</mark>藏垢纳污<mark style="background-color:rgba(127, 0, 0, 0.5);">之</mark>地耶？危乎，危乎！虽然，往者<mark style="background-color:rgba(255, 180, 180, 0.5);">不</mark>可谏，来者犹可追也。</p><p></p>
+    <p>先民有言：会稽<mark style="background-color:rgba(255, 201, 201, 0.5);">乃</mark>报仇雪耻<mark style="background-color:rgba(127, 0, 0, 0.5);">之</mark>乡，非藏垢纳污<mark style="background-color:rgba(127, 0, 0, 0.5);">之</mark>地。盖越自勾践以来，遗风未泯，士尚气节。中世遭种族<mark style="background-color:rgba(127, 0, 0, 0.5);">之</mark>变，苦心积虑，<mark style="background-color:rgba(255, 180, 180, 0.5);">不</mark>忘报复。绍兴一郡，遂屡<mark style="background-color:rgba(117, 117, 117, 0.5);">为</mark>诸夏君民最后诀<mark style="background-color:rgba(90, 90, 90, 0.5);">别</mark>地，虽曰<mark style="background-color:rgba(255, 180, 180, 0.5);">不</mark>祥，亦烈<mark style="background-color:rgba(255, 56, 56, 0.5);">矣</mark>哉！</p><p></p><p>北虏乱华，十年经营，<mark style="background-color:rgba(241, 0, 0, 0.5);">而</mark>后报<mark style="background-color:rgba(127, 0, 0, 0.5);">之</mark>，越<mark style="background-color:rgba(127, 0, 0, 0.5);">之</mark>人实有力<mark style="background-color:rgba(255, 161, 161, 0.5);">焉</mark>。生荣死哀，天下昭见。呜呼，亦越<mark style="background-color:rgba(127, 0, 0, 0.5);">之</mark><mark style="background-color:rgba(241, 241, 255, 0.5);">光</mark><mark style="background-color:rgba(255, 56, 56, 0.5);">矣</mark>。</p><p></p><p>虽然，人生<mark style="background-color:rgba(255, 201, 201, 0.5);">于</mark>忧患<mark style="background-color:rgba(241, 0, 0, 0.5);">而</mark>死<mark style="background-color:rgba(255, 201, 201, 0.5);">于</mark>安乐。东南半壁，方脱虏系，<mark style="background-color:rgba(241, 0, 0, 0.5);">而</mark>内讧频闻，形同割据。近传台绍诸郡，亦谋分立，虽曰流言，虑非佳兆。嗟尔越<mark style="background-color:rgba(127, 0, 0, 0.5);">之</mark>人，其敢忘先民<mark style="background-color:rgba(127, 0, 0, 0.5);">之</mark>训乎！尔<mark style="background-color:rgba(117, 117, 117, 0.5);">为</mark>福<mark style="background-color:rgba(255, 201, 201, 0.5);">于</mark>国，民未尝<mark style="background-color:rgba(255, 180, 180, 0.5);">不</mark>尔感；尔<mark style="background-color:rgba(117, 117, 117, 0.5);">为</mark>毒<mark style="background-color:rgba(255, 201, 201, 0.5);">于</mark>国，民亦<mark style="background-color:rgba(255, 180, 180, 0.5);">不</mark>能<mark style="background-color:rgba(255, 180, 180, 0.5);">不</mark>尔怨也。臣虏<mark style="background-color:rgba(127, 0, 0, 0.5);">之</mark>耻，尔幸<mark style="background-color:rgba(117, 117, 117, 0.5);">为</mark>越雪<mark style="background-color:rgba(127, 0, 0, 0.5);">之</mark>；今尔偾事，又令谁<mark style="background-color:rgba(117, 117, 117, 0.5);">为</mark>尔雪此耻乎？</p><p></p><p>呜呼！於越古国，<mark style="background-color:rgba(241, 0, 0, 0.5);">而</mark>今<mark style="background-color:rgba(241, 0, 0, 0.5);">而</mark>后，<mark style="background-color:rgba(117, 117, 117, 0.5);">为</mark>报仇雪耻<mark style="background-color:rgba(127, 0, 0, 0.5);">之</mark>乡耶？<mark style="background-color:rgba(117, 117, 117, 0.5);">为</mark>藏垢纳污<mark style="background-color:rgba(127, 0, 0, 0.5);">之</mark>地耶？危乎危乎！虽然，往者<mark style="background-color:rgba(255, 180, 180, 0.5);">不</mark>可谏，来者犹可追也。</p>
     </body>
     </html>
     

diff --git a/visualization/民国之征何在.html b/visualization/民国之征何在.html
@@ -5,7 +5,7 @@
         <meta charset="UTF-8">
     </head>
     <body>
-    <p>在昔满人中国，淫威孔肆，法以意造，政以贿成；使我夏民，生命财产无所保入。其罪上通<mark style="background-color:rgba(255, 201, 201, 0.5);">于</mark>天，<mark style="background-color:rgba(209, 209, 255, 0.5);">夫</mark><mark style="background-color:rgba(255, 5, 5, 0.5);">惟</mark>异族专制<mark style="background-color:rgba(117, 117, 117, 0.5);">为</mark>然。然满人亦以<mark style="background-color:rgba(255, 85, 85, 0.5);">是</mark>自隳其命。</p><p></p><p>革命既兴，种族政治，<mark style="background-color:rgba(139, 139, 139, 0.5);">皆</mark>有平亭。旧日<mark style="background-color:rgba(127, 0, 0, 0.5);">之</mark>淤，<mark style="background-color:rgba(255, 180, 180, 0.5);">不</mark>难尽去，<mark style="background-color:rgba(241, 0, 0, 0.5);">而</mark>夷考其实，信乎？否乎？</p><p></p><p>昔秋女士被逮，无定谳，遽遭残贼。天下共愤，今得昭复。<mark style="background-color:rgba(241, 0, 0, 0.5);">而</mark>章介眉以种种嫌疑，久经拘讯，<mark style="background-color:rgba(241, 0, 0, 0.5);">而</mark>罪无定谳，<mark style="background-color:rgba(241, 0, 0, 0.5);">而</mark>议籍其家。自一面言<mark style="background-color:rgba(127, 0, 0, 0.5);">之</mark>，可谓天道好远，且一面言<mark style="background-color:rgba(127, 0, 0, 0.5);">之</mark>，亦<mark style="background-color:rgba(255, 141, 141, 0.5);">何</mark>解<mark style="background-color:rgba(255, 201, 201, 0.5);">于</mark>以暴易暴乎！此矛盾<mark style="background-color:rgba(127, 0, 0, 0.5);">之</mark>一例也。</p><p></p><p>更统观<mark style="background-color:rgba(255, 249, 249, 0.5);">全</mark>局，<mark style="background-color:rgba(255, 233, 233, 0.5);">则</mark>官威如故，民瘼未苏，翠舆朝出，荷戈警跸；高楼夜宴，倚戟卫门；两曹登堂，只梏加足；雄师捉人，提耳流血。保费计以百金，酒资少亦拾角。此<mark style="background-color:rgba(139, 139, 139, 0.5);">皆</mark>彰彰在人耳目者，其他更<mark style="background-color:rgba(255, 141, 141, 0.5);">何</mark>论耶！</p><p></p><p>呜呼！昔<mark style="background-color:rgba(117, 117, 117, 0.5);">为</mark>异族，今<mark style="background-color:rgba(117, 117, 117, 0.5);">为</mark>同气；昔<mark style="background-color:rgba(117, 117, 117, 0.5);">为</mark>专制，今<mark style="background-color:rgba(117, 117, 117, 0.5);">为</mark>共和。以今较昔，其异安在？由今<mark style="background-color:rgba(127, 0, 0, 0.5);">之</mark>道，无变今<mark style="background-color:rgba(127, 0, 0, 0.5);">之</mark>俗。浙东片土，固赫然一小朝廷也。异<mark style="background-color:rgba(255, 201, 201, 0.5);">于</mark>昔者，殆在<mark style="background-color:rgba(255, 85, 85, 0.5);">是</mark>耶！</p>
+    <p>在昔满人主国，淫威孔肆，法以意造，政以贿成，使我夏民生命财产无所保入，其罪上通<mark style="background-color:rgba(255, 201, 201, 0.5);">于</mark>天。<mark style="background-color:rgba(209, 209, 255, 0.5);">夫</mark><mark style="background-color:rgba(255, 5, 5, 0.5);">惟</mark>异族专制<mark style="background-color:rgba(117, 117, 117, 0.5);">为</mark>然，然满人亦以<mark style="background-color:rgba(255, 85, 85, 0.5);">是</mark>自隳其命。革命既兴，种族政治，<mark style="background-color:rgba(139, 139, 139, 0.5);">皆</mark>有平亭，旧日<mark style="background-color:rgba(127, 0, 0, 0.5);">之</mark>淤，<mark style="background-color:rgba(255, 180, 180, 0.5);">不</mark>难尽去，<mark style="background-color:rgba(241, 0, 0, 0.5);">而</mark>夷考其实，信乎？否乎？</p><p></p><p>昔秋女士被逮，无定谳，遽遭残贼，天下共愤，今得昭复。<mark style="background-color:rgba(241, 0, 0, 0.5);">而</mark>章介眉以种种嫌疑，久经拘讯，亦罪无定谳，<mark style="background-color:rgba(241, 0, 0, 0.5);">而</mark>议籍其家。自一面言<mark style="background-color:rgba(127, 0, 0, 0.5);">之</mark>，可谓天道好还；又一面言<mark style="background-color:rgba(127, 0, 0, 0.5);">之</mark>，亦<mark style="background-color:rgba(255, 141, 141, 0.5);">何</mark>解<mark style="background-color:rgba(255, 201, 201, 0.5);">于</mark>以暴易暴乎！此矛盾<mark style="background-color:rgba(127, 0, 0, 0.5);">之</mark>一例也。更统观<mark style="background-color:rgba(255, 249, 249, 0.5);">全</mark>局，<mark style="background-color:rgba(255, 233, 233, 0.5);">则</mark>官威如故，民瘼未苏。翠舆朝出，荷戈警跸；高楼夜宴，倚戟卫门；两曹登堂，桎梏加足；雄师捉人，提耳流血。保费计以百金，酒资少亦十角。此<mark style="background-color:rgba(139, 139, 139, 0.5);">皆</mark>彰彰在人耳目者，其他更<mark style="background-color:rgba(255, 141, 141, 0.5);">何</mark>论耶！</p><p></p><p>呜呼！昔<mark style="background-color:rgba(117, 117, 117, 0.5);">为</mark>异族，今<mark style="background-color:rgba(117, 117, 117, 0.5);">为</mark>同气；昔<mark style="background-color:rgba(117, 117, 117, 0.5);">为</mark>专制，今<mark style="background-color:rgba(117, 117, 117, 0.5);">为</mark>共和。以今较昔，其异安在？由今<mark style="background-color:rgba(127, 0, 0, 0.5);">之</mark>道，无变今<mark style="background-color:rgba(127, 0, 0, 0.5);">之</mark>俗。浙东片土，固赫然一小朝廷也。异<mark style="background-color:rgba(255, 201, 201, 0.5);">于</mark>昔者，殆在<mark style="background-color:rgba(255, 85, 85, 0.5);">是</mark>耶！</p><p></p>
     </body>
     </html>
     
